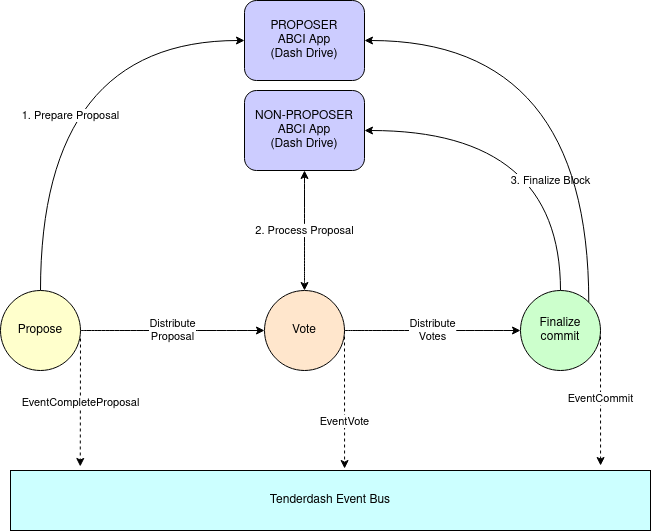
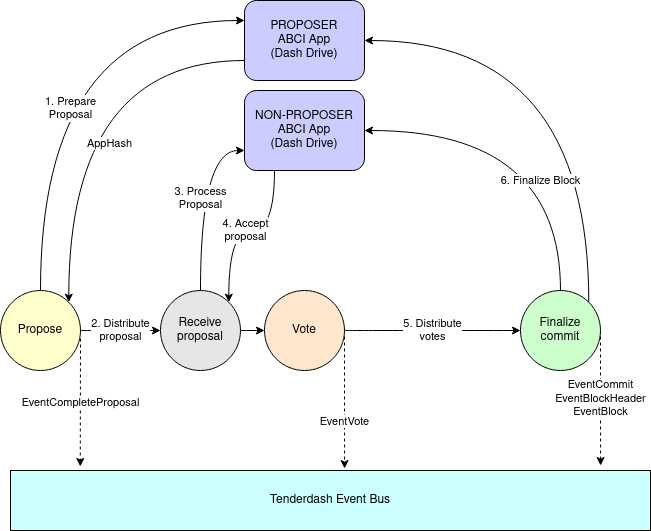
doc(adr): dadr-0002 updated alternative approaches with diagrams

diff --git a/docs/architecture/adr-d002-same-block-execution.md b/docs/architecture/adr-d002-same-block-execution.md
@@ -55,16 +55,16 @@ APIs to remove:
 - DeliverTX - replaced by **Process Proposal**
 - EndBlock - replaced by **Finalize Block**
 
-Modified workflow for the ABCI app will look as follows:
+Modified workflow from the perspective of ABCI app will look as follows:
 
 ![Process Proposal flow](img/adr-d0002-limited-abci-plus-plus.png "Proposal flow")
 
 1. Proposer node sends a **Prepare Proposal** request to the **ABCI App**. **ABCI App** saves received transaction in a non-committed state and responds with the new `AppHash`.
-1a. Proposer node generates new proposal and distributes it to other Validators in the active Validator Set.
-2. Non-proposer validator nodes send a **Process Proposal** request to the **ABCI App**. **ABCI App** saves received transaction in a non-committed state and responds with accept or reject message.
-2a. Active Validator nodes sign and distribute votes.
-2b. Once majority of votes has been reached, block is committed.
-3. All nodes send a **Finalize Block** to their **ABCI App**. **ABCI App** commits received transactions.
+2. Proposer node signs the proposal and distributes it to other Validators in the active Validator Set.
+3. Non-proposer validator nodes send a **Process Proposal** request to the **ABCI App**. 
+4. **ABCI App** saves received transaction in a non-committed state and responds with accept or reject message.
+5. Active Validator nodes sign and distribute votes. Once majority of votes has been reached, block is committed.
+6. All nodes send a **Finalize Block** to their **ABCI App**. **ABCI App** commits received transactions.
 
 The following alternative flows shall be considered:
 
@@ -87,6 +87,17 @@ API changes include:
 - EndBlock shall return AppHash (current `data` field from `Commit` response)
 
 All nodes will verify AppHash returned by EndBlock before signing a vote.
+
+Modified workflow from the perspective of the ABCI app shall look as follows:
+
+![Process Proposal flow](img/adr-d0002-move-beginblock.png "Proposal flow")
+
+1. On the Proposer, **BeginBlock**, **DeliverTX** and **EndBlock** calls are executed.
+2. In response to **EndBlock**, ABCI App returns the `AppHash`, which is included in the block to sign.
+3. Proposer node signs the proposal and distributes it to other Validators in the active Validator Set.
+4. Non-proposer validator nodes send  **BeginBlock**, **DeliverTX** and **EndBlock** requests to the **ABCI App**. ABCI App accepts or rejects the block.
+5. Once the block candidate is accepted by **ABCI App**,  the node signs and distributes its vote.
+6. Once majority of votes is received, **Commit** message is sent to the **ABCI App**.
 
 ### Additional voting phase
 
